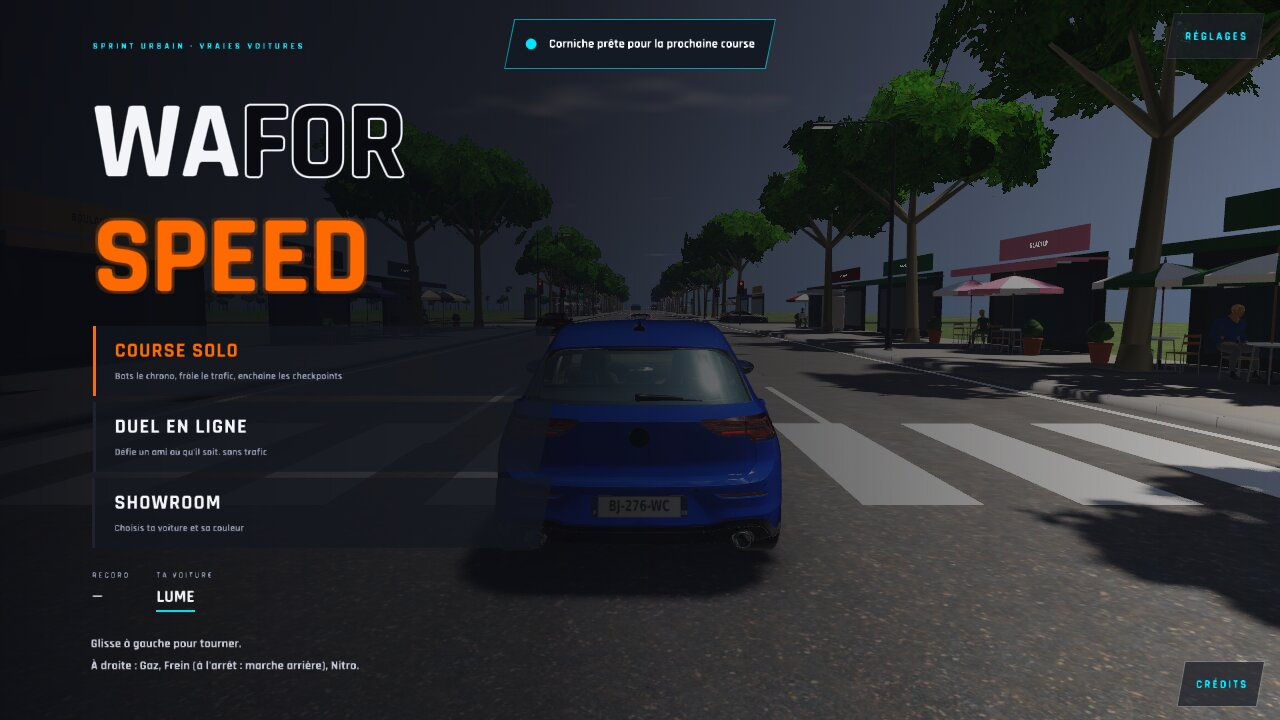
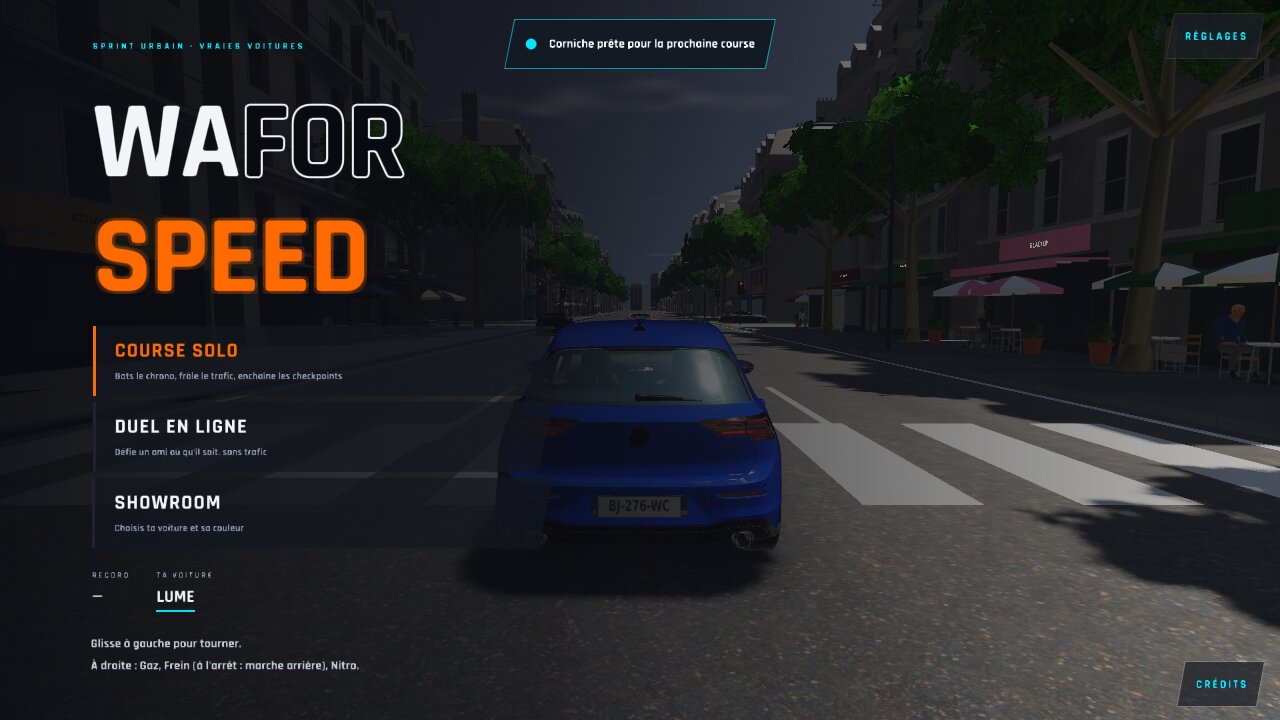
WFS-426 : la cuisson garde les bâtiments de la partie en cours (revue du lead dev #350) (Claude, agent cartes (01UY1Vv2HrQF))
Claude-Session: https://claude.ai/code/session_01UY1Vv2HrQF5b231SiWzwgU

diff --git a/src/ui/ecrans/paquets.cpp b/src/ui/ecrans/paquets.cpp
@@ -18,6 +18,7 @@
 #include "../../world/cartes_v2/paquet_carte.h"   // empreinte attendue, cuisson (banc)
 #include "../../world/cartes_v2/carte_donnees.h"   // WFS-343 : cartes de données (banc)
 #include "../../game/chocs_decor.h"   // WFS-343 : chocs déclarés (banc)
+#include "../../world/archi_carte.h"   // WFS-426 : bâtiments de la carte chargée gardés pendant une cuisson (banc)
 #include "../../core/configgame.h"
 #include "../petit_ecran.h"
 #include "../text.h"
@@ -741,9 +742,16 @@ int benchPaquets(Game& g, Renderer& r, const std::string& out, const std::string
         };
         auto appuiPaquet = [&](int quelle) { float x = 0, y = 0; const bool ok = centrePaquetCarte(quelle, x, y); if (ok) toucherJeu(51 + quelle, x, y); imageMulti(2); return ok; };
         const std::string nomCo = mapById(co.c_str()).name;
+        // WFS-426 (revue du lead dev, PR #350) : la Corniche est cuite (bâtiments compris) pendant que la Ville est chargée : la Ville garde
+        // ses bâtiments posés, à l'identique
+        const size_t batAvant = archi::carte::poses().size();
+        const uint64_t sigAvant = archi::cuit::signature(archi::carte::poses());
         g.allerA(Ecran::Terrain); imageMulti(2);
         choisirCarte(co, false); imageMulti(3);
         verifier(sm.appelsTout == 1 && cp.etat(co).etat == EtatCarte::Disponible, "choix du terrain : liste lue, Corniche « Télécharger »");
+        verifier(batAvant > 0 && archi::carte::poses().size() == batAvant && archi::cuit::signature(archi::carte::poses()) == sigAvant,
+                 "cuisson de la Corniche pendant la partie : bâtiments de la Ville chargée inchangés (WFS-426)");
+        WFS_LOG("paquets (WFS-426) banc : bâtiments de la Ville avant / après la cuisson de la Corniche : %zu / %zu", batAvant, archi::carte::poses().size());
         // WFS-426 : la Corniche cuite porte ses villas (≈ 55 Mo) : débit réglé sur la taille du paquet, pas encore fini après ~280 images
         // à plein débit (contrôle « pendant la course »), fini dans les ~1470 images même tout au débit ralenti (÷ 4)
         sm.parImage = std::max<long long>(sm.parImage, sm.k(co).taille / 320);

diff --git a/src/world/plage.cpp b/src/world/plage.cpp
@@ -18,12 +18,12 @@
 #include <cstring>
 #include <iterator>
 #include <map>
+#include <memory>   // WFS-426 : instance de cuisson (plage::poserVillasKit)
 #include <string>
 #include <unordered_map>
 #include <vector>
 #include "archi_carte.h"   // WFS-161 (accroche) : villas du kit d'architecture
 #include "plage_villas.h"   // WFS-426 : villas posées pour la cuisson du paquet
-#include <memory>
 #include "bouchons_sol.h"   // WFS-212 / WFS-283 : disques de sol au centre des virages serrés
 #include "../../third_party/stb/stb_image.h"
 #include "../core/jobs.h"
@@ -1583,6 +1583,7 @@ public:
             const int64_t m = mod(e.seg);
             if (e.type == plage::E_CASINO) for (float al : {-e.longueur / 2 - 3.f, e.longueur / 2 + 3.f})
                 palms_.push_back({mod(m + (int64_t)std::lround(al / SEG_M)), -(R + 5.4f), al < 0 ? 9.5f : 10.5f, al < 0 ? 0.08f : -0.06f, al < 0 ? 1.1f : 4.2f});
+            if (cuisson_) continue;   // WFS-426 : la cuisson du paquet ne déclare aucune lumière
             if (e.side > 0) lampadaires().push_back({m, plage::BAR_LAT - 2.f, 2.4f, StyleLampadaire::Ville});
             // casino : lumière du parvis au bord du trottoir (6 m de la façade) ; cafés, galerie et scooters : éclairés par
             // leurs vitrines et leur enseigne (une lumière de rue de plus surexposait leurs murs, comme ceux des villas)

diff --git a/src/world/cartes_v2/paquet_carte.cpp b/src/world/cartes_v2/paquet_carte.cpp
@@ -99,12 +99,13 @@ bool ecrireFichier(const std::string& chemin, const std::vector<uint8_t>& o) {  
 // est le même pour les 3 formats de texture. WFS-426 : Ville (immeubles et entrepôts) et Corniche (villas), posés comme au chargement.
 std::vector<uint8_t> batimentsCuits(const std::string& c) {
     const double t0 = nowSeconds();
+    archi::carte::mettreDeCote();   // WFS-426 : la carte chargée garde ses bâtiments (cuisson pendant une partie : banc, téléchargement)
     Track t;
     t.build(mapById(c.c_str()), trace::versionCarte(c.c_str()));
     if (c == "plage") plage::poserVillasKit(t); else ville::poserImmeublesKit(mapById(c.c_str()), t);
     const archi::cuit::Decor d = archi::cuit::cuire(archi::carte::poses());
     const size_t n = archi::carte::poses().size();
-    archi::carte::vider();
+    archi::carte::remettre();
     std::vector<uint8_t> bloc = archi::cuit::ecrire(d);
     size_t tri[3] = {}, inst = 0, triMod = 0;
     for (const archi::cuit::Morceau& m : d.morceaux) {

diff --git a/src/world/archi_carte.h b/src/world/archi_carte.h
@@ -17,6 +17,10 @@ namespace wfs::archi::carte {
 
 // oublie les bâtiments posés (appelé par la carte à son init, avant poser)
 void vider();
+// WFS-426 (accroche) : cuisson d'un paquet pendant une partie : les bâtiments de la carte chargée (et son bloc cuit lu) sont mis de
+// côté, la liste est vide pour la cuisson, puis tout est remis à l'identique (mêmes tampons) ; jamais imbriqué
+void mettreDeCote();
+void remettre();
 // pose un bâtiment : seg = segment de la route où il commence (choix du morceau), origine = coin bas gauche de la façade
 // (au sol), x = sens de la façade (unitaire, horizontal), z = normale de la façade vers la rue (unitaire, horizontale)
 void poser(int64_t seg, vec3 origine, vec3 x, vec3 z, float largeur, float profondeur, float hauteur, Style style, uint32_t graine);

diff --git a/src/world/plage_villas.h b/src/world/plage_villas.h
@@ -1,7 +1,8 @@
 #pragma once
 // WaForSpeed — WFS-426 : villas de la Corniche (carte « plage ») posées dans le kit d'architecture sans carte graphique, pour la
 // cuisson du paquet de la carte (cartes_v2::cuire, bloc « batiments » de WFS-416). Mêmes tirages et mêmes filtres que l'init de la
-// carte (plage.cpp) : la signature des bâtiments cuits est donc celle que le jeu calcule au chargement. Aucun effet sur la partie en cours.
+// carte (plage.cpp) : la signature des bâtiments cuits est donc celle que le jeu calcule au chargement. Ni lumière ni objet de choc déclaré ;
+// la liste des bâtiments posés est vidée : l'appelant met de côté ceux de la partie en cours (archi::carte::mettreDeCote / remettre).
 namespace wfs {
 class Track;
 namespace plage {

diff --git a/src/world/archi_carte.cpp b/src/world/archi_carte.cpp
@@ -387,6 +387,9 @@ private:
 } // namespace
 
 void vider() { g_bats.clear(); g_cuit = Cuit{}; }
+namespace { std::vector<Bati> g_garde; Cuit g_gardeCuit; }   // WFS-426 (accroche) : voir archi_carte.h
+void mettreDeCote() { g_garde.swap(g_bats); std::swap(g_gardeCuit, g_cuit); vider(); }
+void remettre() { g_bats.swap(g_garde); std::swap(g_cuit, g_gardeCuit); g_garde.clear(); g_gardeCuit = Cuit{}; }
 
 void poser(int64_t seg, vec3 origine, vec3 x, vec3 z, float largeur, float profondeur, float hauteur, Style style, uint32_t graine) {
     g_bats.push_back({seg, origine, x, z, profondeur, assembler(style, largeur, hauteur, graine)});

diff --git a/journal.md b/journal.md
@@ -1360,3 +1360,9 @@ licences : 17 voitures livrées (3 retirées : a45, elantra, x5), 141 fichiers d
 - Tailles : plage_astc 54,6 Mo, plage_etc2 38,2 Mo, plage_rgba8 59,2 Mo (bâtiments 32,9 Mo, 172 villas) ; deux cuissons identiques à l'octet.
 - Vérifié : tests CPU 103/103 ; banc batiments Corniche 0 écart, 0 construction en course avec le paquet (50 et 160 km/h), bloc refusé → secours sans plantage ; banc paquets 0 écart : parcours terrain → télécharger la Corniche → course sur la Ville pendant le téléchargement → course sur la Corniche avec son paquet → supprimer → course en secours.
 - Limites : fichiers nommés `plage_*` (identifiant du code) au lieu de `corniche_*` (signalé au PO) ; mesure S21 FE (≤ 28 ms) à faire sur le téléphone ; publication = lancer paquets.yml à la main après la fusion.
+
+### 2026-11-11 14:32:16 — WFS-426 : correction après le retour du lead dev (PR #350) (Claude, agent cartes (01UY1Vv2HrQF))
+- Cause racine : `batimentsCuits` vidait la liste globale du kit (`g_bats`, `g_cuit`) de la carte chargée ; le banc `paquets` cuit la Corniche pendant une partie sur la Ville → immeubles de la Ville effacés (capture `paquets-menu-prete`).
+- **Accroche annoncée (zone partagée, 6 lignes)** : `src/world/archi_carte.{h,cpp}` : `mettreDeCote()` / `remettre()` (échange des tampons, aucune copie), appelés autour de la cuisson dans `batimentsCuits`.
+- Contrôle ajouté au banc `paquets` : bâtiments de la Ville avant / après la cuisson de la Corniche 625 / 625, même signature : OK ; banc `paquets` 0 écart ; tests CPU 104/104 ; cuisson 0 écart, paquets identiques à l'octet.
+- Aussi : lumières des bars et du casino non déclarées en cuisson ; `<memory>` avec les en-têtes standard ; captures paquets-* refaites (+ `paquets-course-pendant`).
